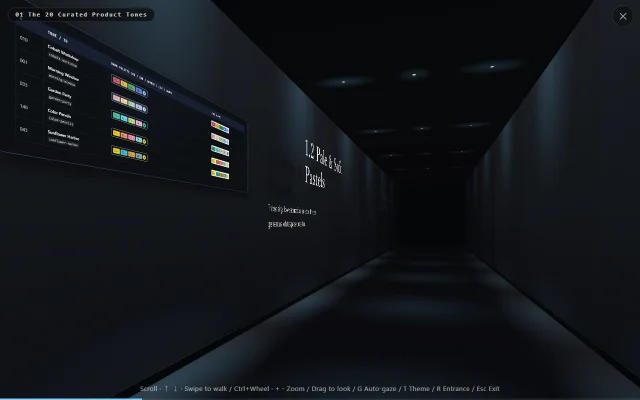
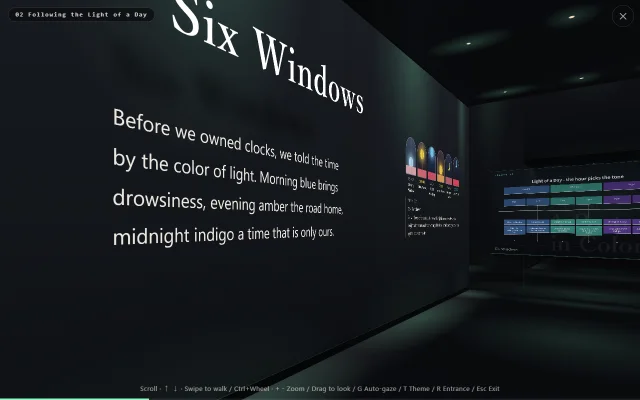
feat(samples): 配色ミュージアムのサムネイルを「一日の光をたどる」の章の構図に撮り直す (#378)
起動画面と README に貼るサムネイルを、左の壁の見出しと本文、その先の窓の作品、
奥の年表の広間が同じ画面に入る構図にした（日本語版・英語版）。
撮影スクリプトに、言語と対象を絞る環境変数（LANGS・TARGETS）を足した。
README のサンプルの説明も新しい内容に合わせる。

diff --git a/README.en.md b/README.en.md
@@ -95,7 +95,7 @@ The Web Edition loads these samples directly from GitHub, while the Standalone E
 | [visual-sample.en.md](public/samples/visual-sample.en.md)     | Visual Mode cover page, editorial templates, tables, Luminous Flow effects, and Stage Presentation |
 | [notation_sample.en.md](public/samples/notation_sample.en.md) | Comprehensive Markdown & Mermaid reference (all diagram types, math, callouts, footnotes, emoji, etc.) |
 | [notation_sample_extra1.en.md](public/samples/notation_sample_extra1.en.md) | Extended syntax (CommonMark & GFM), images, cross-document links, directory trees, and supplementary math plots |
-| [color-museum-sample.en.md](public/samples/color-museum-sample.en.md) | Color Museum (20 curated product tones, all 203 stock palettes, diagrams & motifs; optimized for Dark Museum Walk) |
+| [color-museum-sample.en.md](public/samples/color-museum-sample.en.md) | Color Museum (a gallery of the moments color moves us: posters, windows, landscapes, color fields, and diagrams; made for Dark Museum Walk) |
 
 ## Capabilities
 
